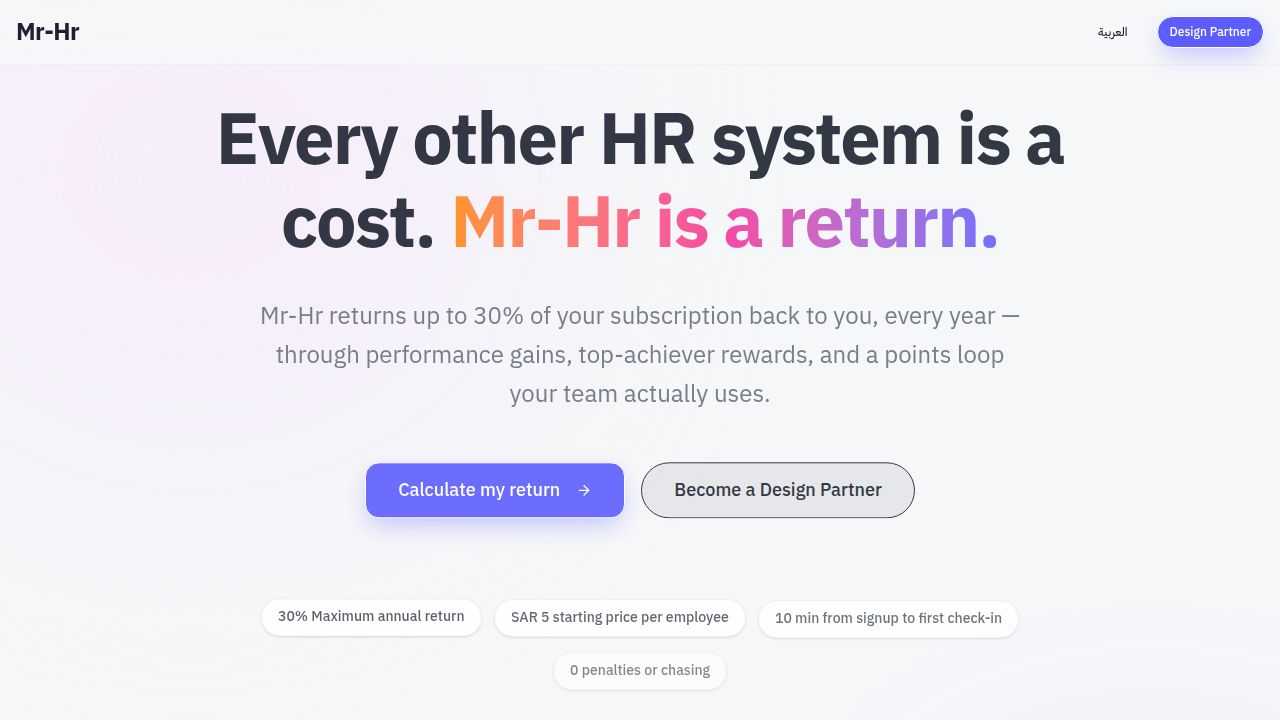
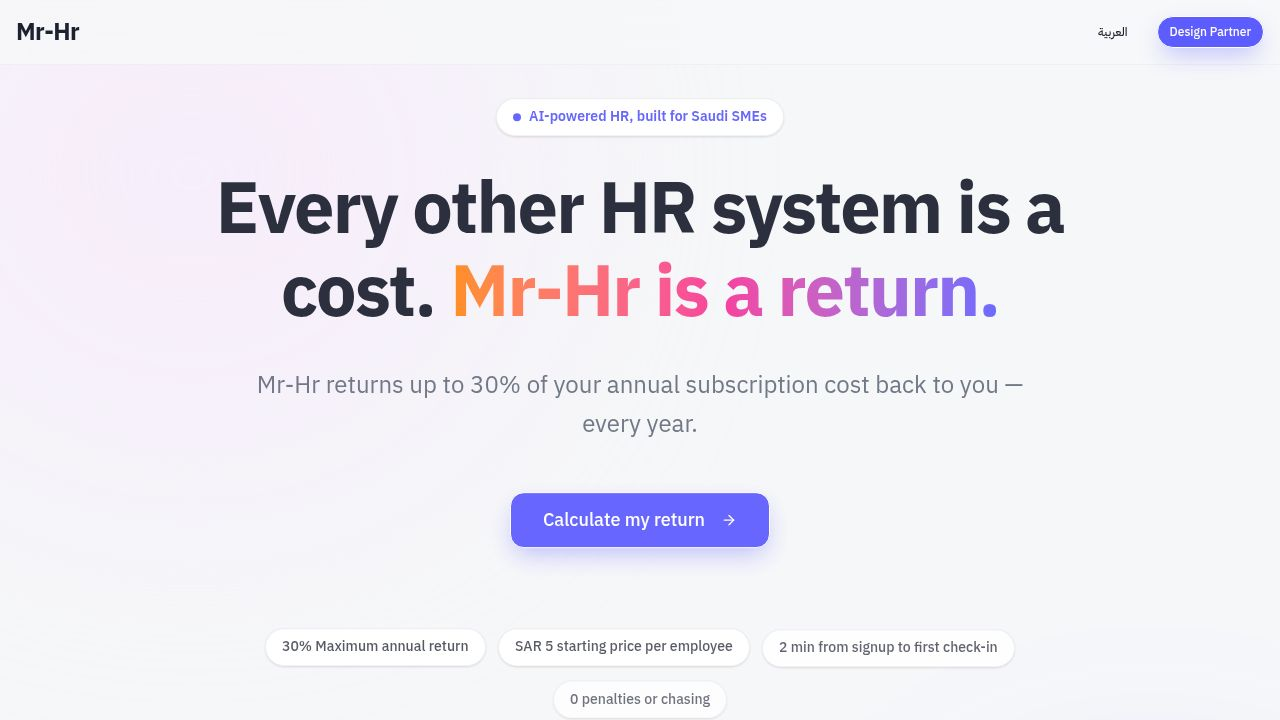
Simplify marketing copy and refine feature descriptions
Update UI text and component logic to improve clarity and user experience across various sections, including hero, problem, calculator, advantages, and who we serve.

Replit-Commit-Author: Agent
Replit-Commit-Session-Id: 2fc7f8ca-a16c-43cf-b876-bbd61b3de2c0
Replit-Commit-Checkpoint-Type: full_checkpoint
Replit-Commit-Event-Id: b3fb1b94-bc06-40d5-a1e0-cb4b9ba0c1e2
Replit-Commit-Screenshot-Url: https://storage.googleapis.com/screenshot-production-us-central1/bb233681-7f26-476e-a857-d3f9f12d56fd/2fc7f8ca-a16c-43cf-b876-bbd61b3de2c0/hNf9M69
Replit-Helium-Checkpoint-Created: true

diff --git a/artifacts/web/src/components/sections/Advantages.tsx b/artifacts/web/src/components/sections/Advantages.tsx
@@ -7,7 +7,7 @@ export function Advantages() {
 
   const content = {
     en: {
-      titlePart1: "The 5 ",
+      titlePart1: "Key ",
       titlePart2: "Advantages",
       subhead: "Every feature is built to do one thing: turn HR from a cost you tolerate into an edge you compound.",
       items: [
@@ -35,12 +35,27 @@ export function Advantages() {
           icon: <HeartHandshake size={28} />,
           title: "Motivational, not punitive",
           desc: "The only Saudi HR system where employees are never penalized"
+        },
+        {
+          icon: <Bot size={28} />,
+          title: "AI HR Self-Service",
+          desc: "Employees submit leave, check payslips, and get HR answers through AI — no manager overhead"
+        },
+        {
+          icon: <ShieldCheck size={28} />,
+          title: "Automated Payroll & WPS",
+          desc: "One-click payroll with automatic WPS filing and salary transfer"
+        },
+        {
+          icon: <Fingerprint size={28} />,
+          title: "Smart Scheduling",
+          desc: "AI-optimized shift scheduling that reduces overtime costs and fills gaps automatically"
         }
       ]
     },
     ar: {
       titlePart1: "المزايا ",
-      titlePart2: "الخمس",
+      titlePart2: "الرئيسية",
       subhead: "كل ميزة صُممت لهدف واحد: تحويل الموارد البشرية من تكلفة تتحملها إلى ميزة تتضاعف لصالحك.",
       items: [
         {
@@ -67,6 +82,21 @@ export function Advantages() {
           icon: <HeartHandshake size={28} />,
           title: "تحفيزي، ليس عقابياً",
           desc: "نظام الموارد البشرية السعودي الوحيد الذي لا يعاقب الموظفين أبداً"
+        },
+        {
+          icon: <Bot size={28} />,
+          title: "الخدمة الذاتية بالذكاء الاصطناعي",
+          desc: "الموظفون يقدمون طلباتهم، يراجعون مستحقاتهم، ويحصلون على إجابات عبر الذكاء الاصطناعي — بدون تدخل المدير"
+        },
+        {
+          icon: <ShieldCheck size={28} />,
+          title: "كشوف رواتب تلقائية وحماية أجور",
+          desc: "معالجة الرواتب بنقرة واحدة مع إيداع تلقائي لنظام حماية الأجور"
+        },
+        {
+          icon: <Fingerprint size={28} />,
+          title: "جدولة ذكية للوردية",
+          desc: "جدولة مُحسَّنة بالذكاء الاصطناعي تقلل تكاليف الوقت الإضافي وتملأ الفراغات تلقائياً"
         }
       ]
     }

diff --git a/artifacts/web/src/components/sections/WhoWeServe.tsx b/artifacts/web/src/components/sections/WhoWeServe.tsx
@@ -5,29 +5,23 @@ export function WhoWeServe() {
 
   const content = {
     en: {
-      headingPart1: "Built for the Saudi ",
-      headingPart2: "owner-operator.",
-      subhead: "If you sign the invoices and feel every cost, Mr-Hr was designed for you.",
+      headingPart1: "Built for any ",
+      headingPart2: "growing business.",
+      subhead: "If you want HR that works for your budget instead of against it, Mr-Hr was built for you.",
       tags: [
-        "Saudi Micro & Small SMEs",
-        "5–300 employees",
-        "Retail",
-        "Hospitality",
-        "Services",
-        "Where the owner is still the buyer"
+        "Private sector",
+        "Any industry",
+        "Any team size"
       ]
     },
     ar: {
-      headingPart1: "صُمم لصاحب العمل ",
-      headingPart2: "السعودي.",
-      subhead: "إذا كنت أنت من يوقّع الفواتير ويشعر بكل تكلفة، فقد صُمم مستر إتش آر لك.",
+      headingPart1: "لأي منشأة ",
+      headingPart2: "تريد نمواً حقيقياً.",
+      subhead: "إذا كنت تريد نظام موارد بشرية يوفّر لك بدلاً من أن يستنزفك، فقد صُمم مستر إتش آر لك.",
       tags: [
-        "المنشآت السعودية متناهية الصغر والصغيرة",
-        "٥-٣٠٠ موظف",
-        "التجزئة",
-        "الضيافة",
-        "الخدمات",
-        "حيث يكون المالك هو المشتري"
+        "القطاع الخاص",
+        "جميع القطاعات",
+        "أي حجم فريق"
       ]
     }
   };

diff --git a/artifacts/web/src/components/sections/Hero.tsx b/artifacts/web/src/components/sections/Hero.tsx
@@ -11,17 +11,17 @@ export function Hero() {
       eyebrow: "AI-powered HR, built for Saudi SMEs",
       headlinePart1: "Every other HR system is a cost. ",
       headlinePart2: "Mr-Hr is a return.",
-      subtitle: "Stop paying for software that only takes. Mr-Hr returns up to 30% of your subscription back to you, every year — through performance gains, top-achiever rewards, and a points loop your team actually uses.",
+      subtitle: "Mr-Hr returns up to 30% of your annual subscription cost back to you — every year.",
       primaryCta: "Calculate my return",
       secondaryCta: "Become a Design Partner",
       chips: [
         "30% Maximum annual return",
         "SAR 5 starting price per employee",
-        "10 min from signup to first check-in",
+        "2 min from signup to first check-in",
         "0 penalties or chasing"
       ],
       mockup: {
-        summary: "Return Summary",
+        summary: "Return Summary (Sample)",
         period: "Q3 2024",
         vsLast: "vs last quarter",
         performance: "Performance Return",
@@ -35,22 +35,22 @@ export function Hero() {
       eyebrow: "موارد بشرية بالذكاء الاصطناعي، صُممت للمنشآت السعودية",
       headlinePart1: "كل أنظمة الموارد البشرية تكلفة. ",
       headlinePart2: "مستر إتش آر عائد.",
-      subtitle: "توقّف عن الدفع لبرنامج لا يأخذ إلا منك. مستر إتش آر يعيد لك حتى ٣٠٪ من قيمة اشتراكك سنوياً — من خلال تحسين الأداء، ومكافآت المتميزين، وحلقة نقاط يستخدمها فريقك فعلياً.",
+      subtitle: "مستر إتش آر يعيد لك حتى ٣٠٪ من تكلفة اشتراكك — كل عام.",
       primaryCta: "احسب العائد",
       secondaryCta: "كن شريك تصميم",
       chips: [
         "٣٠٪ الحد الأقصى للعائد السنوي",
         "SAR 5 سعر البدء لكل موظف",
-        "١٠ دقائق من التسجيل لأول تسجيل حضور",
+        "دقيقتان من التسجيل لأول تسجيل حضور",
         "٠ غرامات أو ملاحقة"
       ],
       mockup: {
-        summary: "ملخص العائد",
+        summary: "ملخص العائد (توضيحي)",
         period: "الربع الثالث ٢٠٢٤",
         vsLast: "مقارنة بالربع الماضي",
         performance: "عائد الأداء",
         achievers: "المتميزون",
-        points: "دورة النقاط",
+        points: "نظام التحفيز",
         returnBadge: "عائد ٣٠٪+",
         active: "نشط"
       }
@@ -90,14 +90,6 @@ export function Hero() {
             >
               {t.primaryCta}
               {isRtl ? <ArrowLeft className="ml-0 mr-2 group-hover:-translate-x-1 transition-transform" /> : <ArrowRight className="ml-2 group-hover:translate-x-1 transition-transform" />}
-            </Button>
-            <Button 
-              size="lg" 
-              variant="secondary" 
-              className="w-full sm:w-auto text-lg h-14 px-8 rounded-full hover:bg-secondary/80"
-              onClick={() => document.getElementById("partner")?.scrollIntoView({ behavior: "smooth" })}
-            >
-              {t.secondaryCta}
             </Button>
           </div>
 

diff --git a/artifacts/web/src/components/sections/ReturnModel.tsx b/artifacts/web/src/components/sections/ReturnModel.tsx
@@ -26,15 +26,15 @@ export function ReturnModel() {
         {
           num: "03",
           pct: "5%",
-          title: "Points & redemption loop",
+          title: "Motivation & Rewards System",
           desc: "Employees earn through engagement; you redeem the value back into the system."
         }
       ]
     },
     ar: {
-      titlePart1: "ثلاث طبقات. ",
-      titlePart2: "حتى ٣٠٪ عائد",
-      titlePart3: "، كل عام.",
+      titlePart1: "توفير وميزانية مستردة تصل الى ",
+      titlePart2: "30%",
+      titlePart3: "",
       subhead: "بدون حيل أو خدع استرداد. إليك بالضبط من أين يعود كل ريال — ولماذا يتضاعف كلما طالت مدة بقائك.",
       layers: [
         {
@@ -52,7 +52,7 @@ export function ReturnModel() {
         {
           num: "٠٣",
           pct: "٥٪",
-          title: "دورة النقاط والاسترداد",
+          title: "نظام التحفيز والمكافئات",
           desc: "يكتسب الموظفون النقاط من خلال التفاعل؛ وتسترد أنت القيمة في النظام."
         }
       ]

diff --git a/artifacts/web/src/components/sections/Problem.tsx b/artifacts/web/src/components/sections/Problem.tsx
@@ -21,8 +21,8 @@ export function Problem() {
       }
     },
     ar: {
-      headingPart1: "الأنظمة الأخرى تفوتر لك. ",
-      headingPart2: "نظامك يجب أن يدفع لك.",
+      headingPart1: "الأنظمة الأخرى تستنزف أموالك باشتراكات. ",
+      headingPart2: "نظامك يجب أن يوفر لك.",
       subhead: "نفس الرسوم الشهرية. حسبة مختلفة تماماً. أحدهما يستنزف ميزانيتك كل شهر — والآخر يعيد المال إليها.",
       legacy: {
         title: "الوضع الحالي",

diff --git a/artifacts/web/src/components/sections/Calculator.tsx b/artifacts/web/src/components/sections/Calculator.tsx
@@ -44,6 +44,7 @@ export function Calculator({
       tiers: { Growth: "Growth", Pro: "Pro", Suite: "Suite" },
       results: {
         annualReturn: "Annual Return",
+        sampleNote: "Illustrative estimate based on your inputs",
         subscription: "Annual Subscription",
         effective: "Effective Annual Cost",
         performance: "Performance",
@@ -60,6 +61,7 @@ export function Calculator({
       tiers: { Growth: "نمو", Pro: "احترافي", Suite: "جناح" },
       results: {
         annualReturn: "العائد السنوي",
+        sampleNote: "أرقام تقديرية توضيحية بناءً على مدخلاتك",
         subscription: "الاشتراك السنوي",
         effective: "التكلفة السنوية الفعلية",
         performance: "الأداء",
@@ -129,6 +131,7 @@ export function Calculator({
                 <div className="text-5xl md:text-6xl font-bold text-primary tracking-tight">
                   {formatCurrency(totalReturn, "SAR", language)}
                 </div>
+                <p className="text-xs text-muted-foreground mt-3">{t.results.sampleNote}</p>
               </div>
 
               <div className="space-y-6">